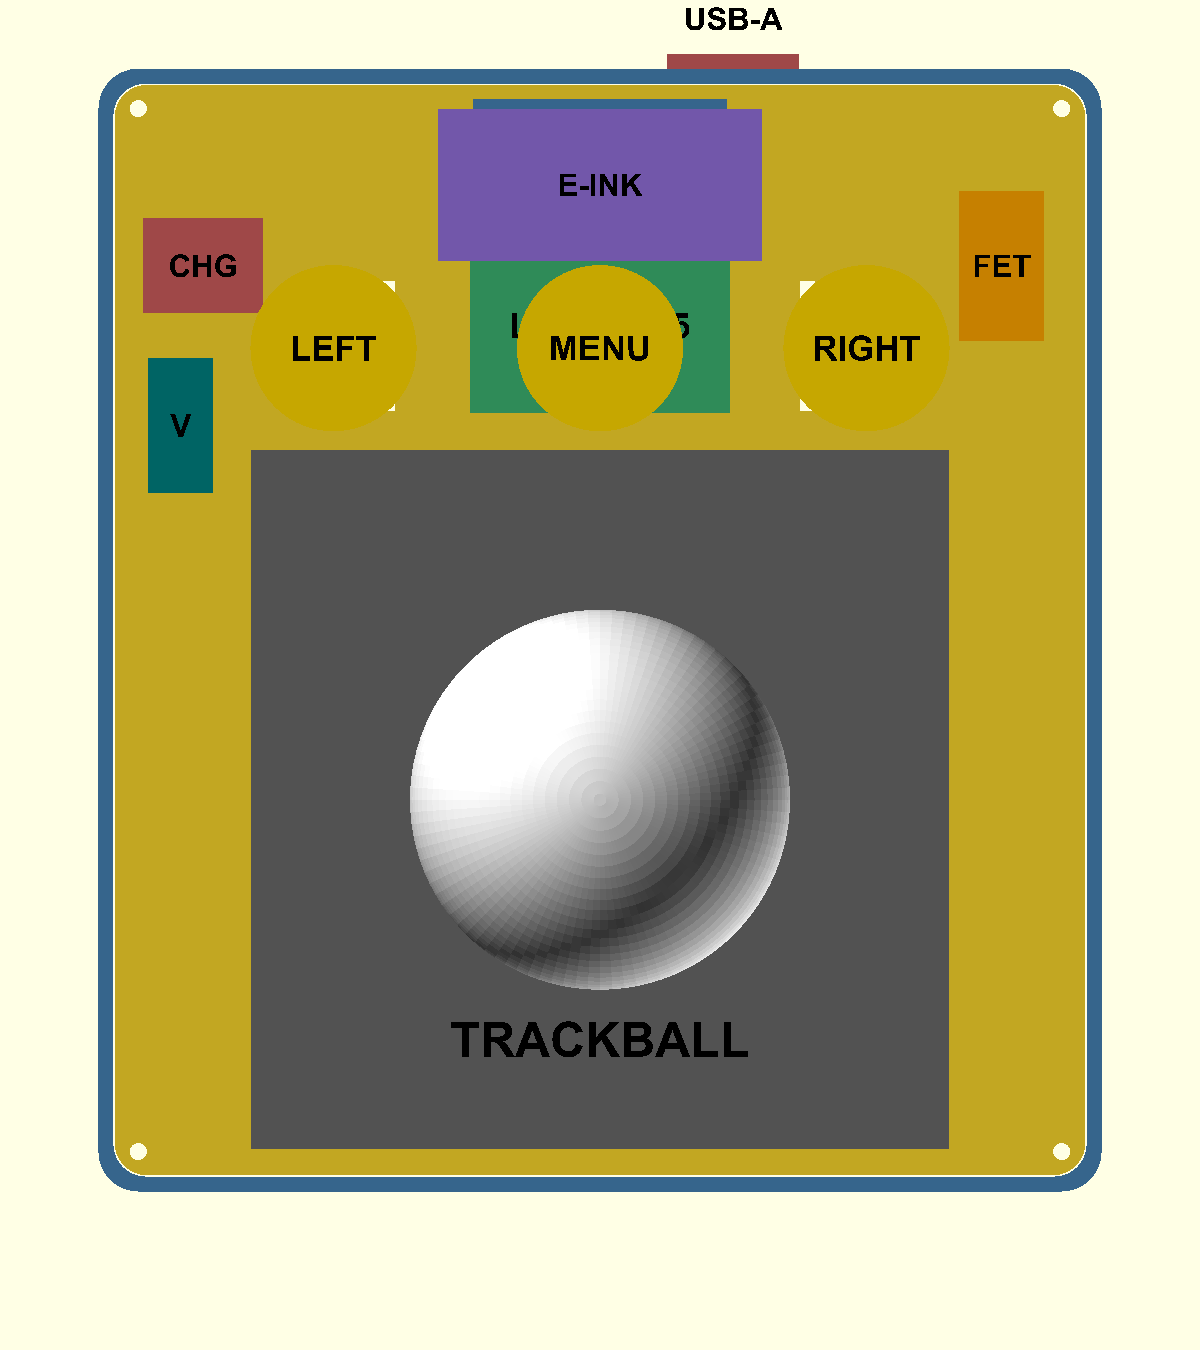
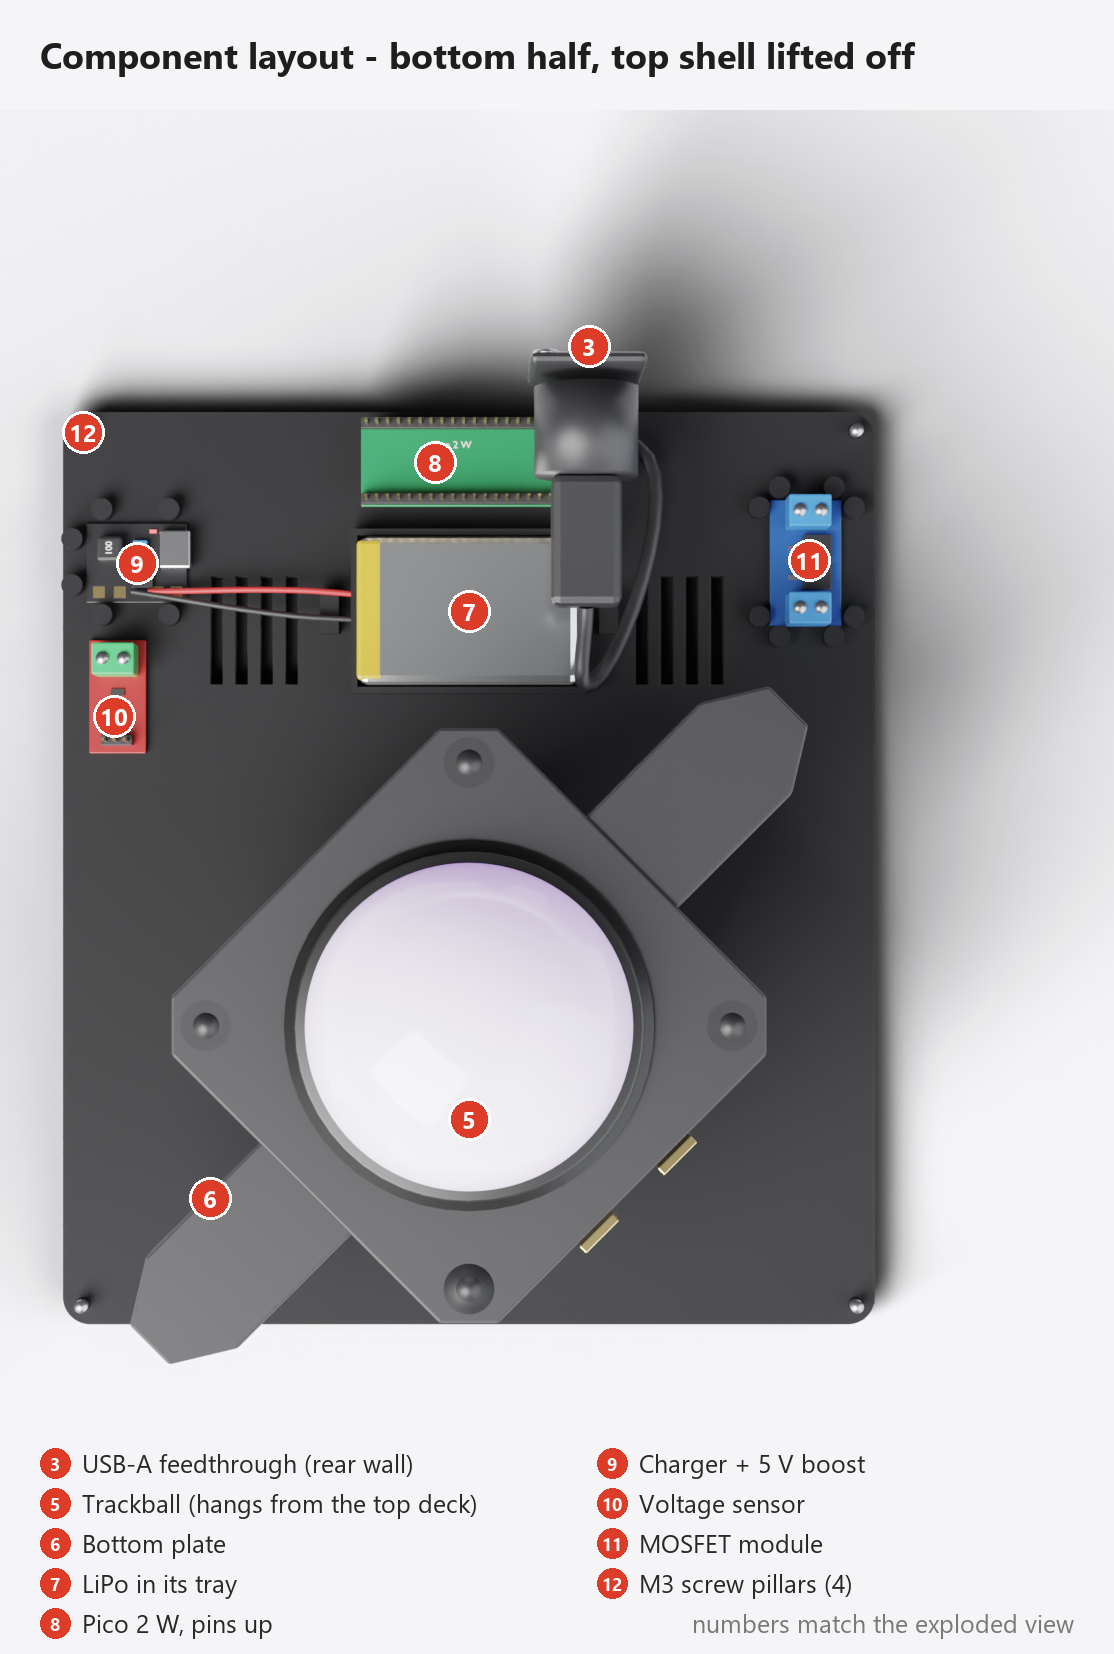
Blender layout render, buy links, Claude Code build assistant
- images/layout_top.png is now a Blender render of the bottom half with
  numbered callouts (render.py "layout" shot + annotate.py)
- parts list: example Amazon / AliExpress link for every part
- CLAUDE.md + README section: use Claude Code as a build assistant

diff --git a/renders/render.py b/renders/render.py
@@ -8,7 +8,7 @@
 #    renders/build/screen.png   e-paper screen image (250 x 122 aspect)
 #  Render:
 #    blender -b -P renders/render.py -- <repo root> <samples> <shots>
-#  shots: comma list of hero,top,rear,exploded,cutaway,thumbs (default all)
+#  shots: comma list of hero,top,rear,exploded,cutaway,layout,thumbs (default all)
 #  Writes images/*.png; exploded also writes renders/build/callouts.json
 #  (pixel positions of each numbered part, for annotate.py).
 # ============================================================
@@ -18,7 +18,7 @@ from mathutils import Vector
 argv = sys.argv[sys.argv.index("--") + 1:] if "--" in sys.argv else []
 ROOT = argv[0] if argv else os.getcwd()
 SAMPLES = int(argv[1]) if len(argv) > 1 else 192
-SHOTS = (argv[2] if len(argv) > 2 else "hero,top,rear,exploded,cutaway,thumbs").split(",")
+SHOTS = (argv[2] if len(argv) > 2 else "hero,top,rear,exploded,cutaway,layout,thumbs").split(",")
 sys.path.insert(0, os.path.join(ROOT, "renders"))
 import components as C
 
@@ -167,6 +167,23 @@ if "exploded" in SHOTS:
     json.dump(pts, open(os.path.join(BUILD, "callouts.json"), "w"))
     render("exploded_raw")
     reset_layout(); floor.location.z = -3.5 * MM
+
+# ---------- layout: looking down into the bottom half (shell, buttons and screen lifted off) ----------
+if "layout" in SHOTS:
+    reset_layout(); show(ALL - {"shell", "buttons", "epaper"})
+    floor.location.z = -3.5 * MM
+    cam = camera("layout", (0.0, 0.035, 0.66), (0.0, 0.035, 0.0), lens=58, res=(1500, 1700))
+    anchors = {3: ("usb", (26.7, 150, 52)), 5: ("trackball", (0, -20, 70)), 6: ("plate", (-62, -45, 4)),
+               7: ("battery", (0, 95, 10)), 8: ("pico", (-8, 130, 13)), 9: ("charger", (-79.5, 107, 5)),
+               10: ("sensor", (-84, 70, 12)), 11: ("mosfet", (80.5, 107, 12)), 12: ("plate", (-92.5, 138.5, 4))}
+    from bpy_extras.object_utils import world_to_camera_view
+    bpy.context.view_layer.update()
+    W, Hh = scene.render.resolution_x, scene.render.resolution_y
+    pts = {n: [round(c) for c in (lambda v: (v.x * W, (1 - v.y) * Hh))(
+        world_to_camera_view(scene, cam, Vector(p) * MM + groups[k].location))] for n, (k, p) in anchors.items()}
+    os.makedirs(BUILD, exist_ok=True)
+    json.dump(pts, open(os.path.join(BUILD, "layout_callouts.json"), "w"))
+    render("layout_raw")
 
 # ---------- one render per component ----------
 if "thumbs" in SHOTS:

diff --git a/renders/annotate.py b/renders/annotate.py
@@ -41,4 +41,34 @@ if os.path.exists(raw):
         d.text((cx + 42, cy + 2), names[n], font=f, fill=(40, 40, 40))
     im.save(os.path.join(IMG, "exploded.png"), optimize=True)
     os.remove(raw)
+raw = os.path.join(IMG, "layout_raw.png")
+if os.path.exists(raw):
+    pts = {int(k): v for k, v in json.load(open(os.path.join(BUILD, "layout_callouts.json"))).items()}
+    src = Image.open(raw).convert("RGBA")
+    l, t, r, b = src.getchannel("A").point(lambda a: 255 if a > 40 else 0).getbbox()
+    m = 60; l, t, r, b = max(l - m, 0), max(t - m, 0), min(r + m, src.width), min(b + m, src.height)
+    bg = Image.new("RGBA", src.size, BG + (255,))
+    base = Image.alpha_composite(bg, src).convert("RGB").crop((l, t, r, b))
+    TOP, KEY = 110, 230
+    im = Image.new("RGB", (base.width, base.height + TOP + KEY), BG); im.paste(base, (0, TOP))
+    d = ImageDraw.Draw(im)
+    f = ImageFont.truetype("segoeui.ttf", 25); fn = ImageFont.truetype("segoeuib.ttf", 24)
+    fs = ImageFont.truetype("segoeuib.ttf", 18); ft = ImageFont.truetype("segoeuib.ttf", 36)
+    names = {3: "USB-A feedthrough (rear wall)", 5: "Trackball (hangs from the top deck)", 6: "Bottom plate",
+             7: "LiPo in its tray", 8: "Pico 2 W, pins up", 9: "Charger + 5 V boost",
+             10: "Voltage sensor", 11: "MOSFET module", 12: "M3 screw pillars (4)"}
+    for n, (x, y) in pts.items():
+        x -= l; y += TOP - t; rr = 21
+        d.ellipse([x - rr, y - rr, x + rr, y + rr], fill=(220, 60, 40), outline="white", width=3)
+        d.text((x, y), str(n), font=fn, fill="white", anchor="mm")
+    d.text((40, 30), "Component layout - bottom half, top shell lifted off", font=ft, fill=(30, 30, 30))
+    y0 = TOP + base.height + 20
+    for i, n in enumerate(sorted(names)):
+        cx, cy = 40 + (i // 5) * (im.width // 2), y0 + (i % 5) * 40
+        d.ellipse([cx, cy + 4, cx + 30, cy + 34], fill=(220, 60, 40))
+        d.text((cx + 15, cy + 19), str(n), font=fs, fill="white", anchor="mm")
+        d.text((cx + 42, cy + 2), names[n], font=f, fill=(40, 40, 40))
+    d.text((im.width - 40, y0 + 4 * 40 + 2), "numbers match the exploded view", font=f, fill=(120, 120, 120), anchor="ra")
+    im.save(os.path.join(IMG, "layout_top.png"), optimize=True)
+    os.remove(raw)
 print("annotated")

diff --git a/README.md b/README.md
@@ -41,8 +41,9 @@ with any game, emulator or computer.
 9. [Golden Tee, TeknoParrot and RetroBat](#golden-tee-teknoparrot-and-retrobat)
 10. [Customising](#customising)
 11. [Troubleshooting](#troubleshooting)
-12. [Repository layout](#repository-layout)
-13. [Credits & licence](#credits--licence)
+12. [Build it with Claude Code (optional)](#build-it-with-claude-code-optional)
+13. [Repository layout](#repository-layout)
+14. [Credits & licence](#credits--licence)
 
 ---
 
@@ -67,33 +68,39 @@ sleeps, and a **voltage sensor** lets the Pico read the battery level.
 
 ### Electronics
 
-| | # | Part | Qty | Notes |
-|---|---|---|---|---|
-| <img src="images/part_trackball.png" width="90"> | 1 | **3" illuminated arcade trackball, USB/PS2** (generic, e.g. AliExpress "3 inch trackball LED USB") | 1 | Ball Ø76.2, mounting holes on an 80.5 mm square. Its own interface board stays: connector **J1** = +5V, DATA, CLOCK, GND, M, R, L |
-| <img src="images/part_pico.png" width="90"> | 2 | **Raspberry Pi Pico 2 W** (RP2350, with wireless) | 1 | Must be the **2 W**: the RP2350's 5 V-tolerant pins and Bluetooth are both needed. Headers soldered on (pins point up in the case) |
-| <img src="images/part_epaper.png" width="90"> | 3 | **Waveshare 2.13" e-Paper HAT V4** (250 × 122, Raspberry Pi format, 65 × 30.5 mm) | 1 | Wired with its 8-pin JST lead — it does not plug onto the Pico |
-| <img src="images/part_charger.png" width="90"> | 4 | **Charger + boost board**, "TP4056 type", 1 A charge, adjustable 4.2–28 V out, USB-C, 24 × 19 mm | 1 | Charges the LiPo and makes the 5 V rail. Set the output to **5.00 V** first |
-| <img src="images/part_battery.png" width="90"> | 5 | **LiPo pouch cell 3.7 V**, 52 × 35 × 10 mm (≈1000–1200 mAh), with protection | 1 | Sits in a tray; never clamp a pouch cell |
-| <img src="images/part_mosfet.png" width="90"> | 6 | **MOSFET trigger module** ("XY-MOS", 2 × D4184) | 1 | Switches the trackball off in sleep. A bare IRLZ44N + 220 Ω + 100 kΩ works too |
-| <img src="images/part_sensor.png" width="90"> | 7 | **0–25 V voltage sensor module** (30 k / 7.5 k divider, ÷5) | 1 | Battery level |
-| <img src="images/part_buttons.png" width="90"> | 8 | **Lit arcade buttons**, 30 mm (1-1/8"), 5 V LED, 3-wire XH harness | 3 | LEFT / MENU / RIGHT. Below-panel depth ≤ 60 mm |
-| <img src="images/part_usb.png" width="90"> | 9 | **USB-A female/female D-type panel feedthrough** (body Ø23.7, holes 19 × 24 mm diagonal) | 1 | The one external port |
-| | 10 | **Short micro-USB to USB-A cable** | 1 | Inside: Pico → feedthrough |
-| | 11 | **USB-C male pigtail, 2-wire** (red / black) | 1 | Pico VBUS → charger input |
-| | 12 | **USB-A to USB-A cable** (plain, no chip) | 1 | Outside: controller → computer (USB 3 port recommended for charging) |
-| | 13 | Dupont jumper wires (female), hookup wire, 3-way lever connectors, heat-shrink | — | Everything plugs or clamps |
+The links are examples that match the dimensions the case is designed for
+(no affiliate links). Equivalent parts from any seller work; check the sizes in the Notes column.
+
+| | # | Part | Qty | Notes | Buy |
+|---|---|---|---|---|---|
+| <img src="images/part_trackball.png" width="90"> | 1 | **3" illuminated arcade trackball, USB/PS2** (generic, e.g. AliExpress "3 inch trackball LED USB") | 1 | Ball Ø76.2, mounting holes on an 80.5 mm square. Its own interface board stays: connector **J1** = +5V, DATA, CLOCK, GND, M, R, L | [AliExpress](https://www.aliexpress.com/item/1005005806654620.html) |
+| <img src="images/part_pico.png" width="90"> | 2 | **Raspberry Pi Pico 2 W** (RP2350, with wireless) | 1 | Must be the **2 W**: the RP2350's 5 V-tolerant pins and Bluetooth are both needed. Headers soldered on (pins point up in the case) | [Amazon](https://www.amazon.com/dp/B0DQ7NHGH8) (Waveshare, headers on) |
+| <img src="images/part_epaper.png" width="90"> | 3 | **Waveshare 2.13" e-Paper HAT V4** (250 × 122, Raspberry Pi format, 65 × 30.5 mm) | 1 | Wired with its 8-pin JST lead — it does not plug onto the Pico | [Amazon](https://www.amazon.com/dp/B071S8HT76) |
+| <img src="images/part_charger.png" width="90"> | 4 | **Charger + boost board**, "TP4056 type", 1 A charge, adjustable 4.2–28 V out, USB-C, 24 × 19 mm | 1 | Charges the LiPo and makes the 5 V rail. Set the output to **5.00 V** first | [Amazon](https://www.amazon.com/dp/B0H4FLDTQV) |
+| <img src="images/part_battery.png" width="90"> | 5 | **LiPo pouch cell 3.7 V, size 103450** (≈ 50 × 34 × 10 mm, ≈2000 mAh), with protection board and JST-PH lead | 1 | Must fit the 52 × 35 × 10 mm tray including its protection board — check the listed size. Never clamp a pouch cell | [Amazon](https://www.amazon.com/dp/B0F1KBD9F6) |
+| <img src="images/part_mosfet.png" width="90"> | 6 | **MOSFET trigger module** ("XY-MOS", 2 × D4184) | 1 | Switches the trackball off in sleep. A bare IRLZ44N + 220 Ω + 100 kΩ works too | [Amazon](https://www.amazon.com/dp/B0BZ57XKXZ) |
+| <img src="images/part_sensor.png" width="90"> | 7 | **0–25 V voltage sensor module** (30 k / 7.5 k divider, ÷5) | 1 | Battery level | [Amazon](https://www.amazon.com/dp/B01HTC4XKY) (5-pack) |
+| <img src="images/part_buttons.png" width="90"> | 8 | **Lit arcade buttons**, 30 mm (1-1/8"), 5 V LED, 3-wire XH harness | 3 | LEFT / MENU / RIGHT. Below-panel depth ≤ 60 mm | [Amazon](https://www.amazon.com/dp/B07JFXQSM5) |
+| <img src="images/part_usb.png" width="90"> | 9 | **USB-A female/female D-type panel feedthrough** (body Ø23.7, holes 19 × 24 mm diagonal) | 1 | The one external port | [Amazon](https://www.amazon.com/dp/B0B2HVRDHL) |
+| | 10 | **Short micro-USB to USB-A cable** | 1 | Inside: Pico → feedthrough | [Amazon](https://www.amazon.com/dp/B013G4EAEI) |
+| | 11 | **USB-C male pigtail, 2-wire** (red / black) | 1 | Pico VBUS → charger input | [Amazon](https://www.amazon.com/dp/B0DCGJY4MR) |
+| | 12 | **USB-A to USB-A cable** (plain, no chip) | 1 | Outside: controller → computer (USB 3 port recommended for charging) | [Amazon](https://www.amazon.com/dp/B00HSS9JMW) |
+| | 13 | Dupont jumper wires (female), hookup wire, 3-way lever connectors, heat-shrink | — | Everything plugs or clamps | [Dupont wires](https://www.amazon.com/dp/B01EV70C78) · [WAGO 221-413](https://www.amazon.com/dp/B0719LG1TF) |
 
 ### Hardware
 
-| Part | Qty | Used for |
-|---|---|---|
-| M3 × L4 × D5 heat-set insert | 4 | corner pillars of the top shell |
-| M3 × 8 countersunk screw | 4 | bottom plate → inserts |
-| M3 × 8 self-tapping screw | 2 | USB-A feedthrough → rear wall |
-| M2.5 × 8 self-tapping screw | 2 | e-paper clips |
-| M2 × 6 self-tapping screw (optional) | 4 | Pico → standoffs (a dab of glue works too) |
-| 3M Bumpon SJ5312 rubber feet (Ø12.7 × 3.5) | 4 | recesses in the bottom plate |
-| Zip tie ≥150 mm or double-sided foam tape | 1 | battery retention |
+Screws are standard sizes; any assortment works.
+
+
+| Part | Qty | Used for | Buy |
+|---|---|---|---|
+| M3 × L4 × D5 heat-set insert | 4 | corner pillars of the top shell | [Amazon](https://www.amazon.com/dp/B0FDKYTMZ8) |
+| M3 × 8 countersunk screw | 4 | bottom plate → inserts | any |
+| M3 × 8 self-tapping screw | 2 | USB-A feedthrough → rear wall | any |
+| M2.5 × 8 self-tapping screw | 2 | e-paper clips | any |
+| M2 × 6 self-tapping screw (optional) | 4 | Pico → standoffs (a dab of glue works too) | any |
+| 3M Bumpon SJ5312 rubber feet (Ø12.7 × 3.5) | 4 | recesses in the bottom plate | [Amazon](https://www.amazon.com/dp/B000NG60SW) |
+| Zip tie ≥150 mm or double-sided foam tape | 1 | battery retention | any |
 
 ### Printed parts
 
@@ -336,6 +343,30 @@ trackball drive RetroBat's menus: **[pc/README.md](pc/README.md)**.
 
 ---
 
+## Build it with Claude Code (optional)
+
+This repository includes a [`CLAUDE.md`](CLAUDE.md) that turns
+[Claude Code](https://claude.com/claude-code) into a build assistant for this
+project. It knows the parts, the wiring, the safety checks and the firmware,
+and it can run the flashing and configuration commands on your computer
+for you (it asks before running each one).
+
+1. Install Python 3 and `pip install mpremote` (for talking to the Pico).
+2. Install Claude Code (see its website for the one-line installer) and sign in.
+3. Get this project: `git clone https://github.com/growthlayer/gt-trackball`
+   (or download the ZIP), then open a terminal in that folder and run `claude`.
+4. Ask it things like:
+   - *"Walk me through Step 3, one wire at a time."*
+   - *"Here's a photo of my wiring — does it match the power step?"*
+   - *"My Pico is plugged in holding BOOTSEL. Flash the firmware."*
+   - *"The cursor moves the wrong way left-right. Fix it."*
+   - *"Make the trackball slower in Bluetooth mode."*
+   - *"Make print files for my Prusa MK4."*
+   - *"It doesn't show up in Bluetooth. Help me find out why."*
+
+It works from the same instructions as this guide. Take your time with
+the multimeter checks it asks for: they protect the battery and the screen.
+
 ## Repository layout
 
 | Folder | What's in it |
@@ -346,7 +377,8 @@ trackball drive RetroBat's menus: **[pc/README.md](pc/README.md)**.
 | `harness/` | WireViz harness source (`gt-trackball.yml`) and its drawings + wire BOM |
 | [`firmware/`](firmware/README.md) | MicroPython firmware, the patched MicroPython build and its source patch |
 | [`pc/`](pc/README.md) | Windows / TeknoParrot / RetroBat setup and the menu script |
-| `images/` | renders, wiring, schematic and overview diagrams |
+| `images/` | renders, wiring and overview diagrams |
+| `CLAUDE.md` | instructions that make Claude Code a build assistant for this project |
 | `renders/` | Blender script that makes the product renders |
 | `trackball_bt_case.scad` | the parametric case |
 

diff --git a/CLAUDE.md b/CLAUDE.md
@@ -1,0 +1,63 @@
+# GT Trackball — build assistant notes for Claude Code
+
+You are helping someone build (or modify) the GT Trackball: a wireless 3"
+arcade trackball for Golden Tee, with a Raspberry Pi Pico 2 W, an e-paper
+screen and a 3D-printed case. The builder may not be an electronics person.
+Work step by step with them, confirm what they see before moving on, and
+ask for a photo whenever the hardware state is unclear.
+
+## Where things are
+
+| Path | What |
+|---|---|
+| `README.md` | the build guide: parts, Steps 1–6, troubleshooting. Follow its order. |
+| `images/wiring_*.png` | per-step wiring pictures with a pin-to-pin chart on the right |
+| `harness/gt-trackball.yml` | every wire as data (WireViz) — the source of truth for pin-to-pin questions |
+| `firmware/` | MicroPython firmware; `config.py` holds every pin and tunable |
+| `firmware/micropython/` | the patched MicroPython `.uf2` (the stock build will NOT work) |
+| `print/` | ready-to-print Bambu Studio 3MFs per printer + STLs |
+| `trackball_bt_case.scad` | the parametric case (OpenSCAD) |
+| `pc/` | Windows / TeknoParrot / RetroBat setup and the AutoHotkey script |
+| `tools/` | generators for the print files, wiring pictures and schematic |
+
+## Things you can do for the builder
+
+- **Flash the Pico** (README Step 4 / `firmware/README.md`): copy the patched
+  `.uf2` to the RP2350 drive (BOOTSEL held while plugging in), then
+  `mpremote mip install aioble`, `mpremote mip install usb-device-hid`, and
+  `mpremote cp <firmware files> :`. Check with `mpremote ls`.
+- **Bench test**: `mpremote repl` shows the logs; `firmware/demo.py` exercises
+  the screen with nothing else wired.
+- **Change settings** (speed, axis direction, sleep time, swing meter): edit
+  `firmware/config.py`, then `mpremote cp firmware/config.py :`.
+- **Print files for another printer**: `python tools/make_print_files.py`
+  (needs Bambu Studio); for other slicers use the STLs in `print/stl/` with
+  the settings in `print/README.md`.
+- **Case changes**: edit `trackball_bt_case.scad`, export STLs with OpenSCAD
+  (`openscad -o print/stl/top.stl -D 'part="shell"' trackball_bt_case.scad`),
+  then rebuild the print files.
+- **Wiring questions**: answer from `harness/gt-trackball.yml` and the README
+  table; regenerate the pictures with `python tools/make_wiring_diagrams.py`
+  if wiring changes.
+- **PC setup**: walk through `pc/README.md` (pairing, TeknoParrot bindings,
+  the RetroBat script).
+
+## Rules
+
+- After **any** `mpremote` command, run `mpremote reset` — mpremote leaves the
+  firmware stopped, and the trackball looks dead until it is reset.
+- Before power is first applied: the charger's output must be set to
+  **5.00 V** with nothing connected, measured with a multimeter. Ask for the
+  reading; do not skip this.
+- The e-paper is **3.3 V only** (Pico pin 36). Never let anything wire it to 5 V.
+- The voltage sensor's GND screw stays **empty** (it would bypass the battery
+  protection).
+- LiPo safety: never clamp, puncture or short the pouch; if it is swollen or
+  hot, stop and tell the builder to disconnect it.
+- Pin numbers are the Pico's **physical** pins; the Pico is mounted pins-up,
+  so the builder reads the labels printed on the pin side.
+- If a measurement or photo contradicts the docs, trust the hardware, say
+  so, and stop to work out why before continuing.
+- Don't run commands that change the builder's computer settings (registry,
+  drivers, system mouse settings) yourself — give them the command and let
+  them run it.
